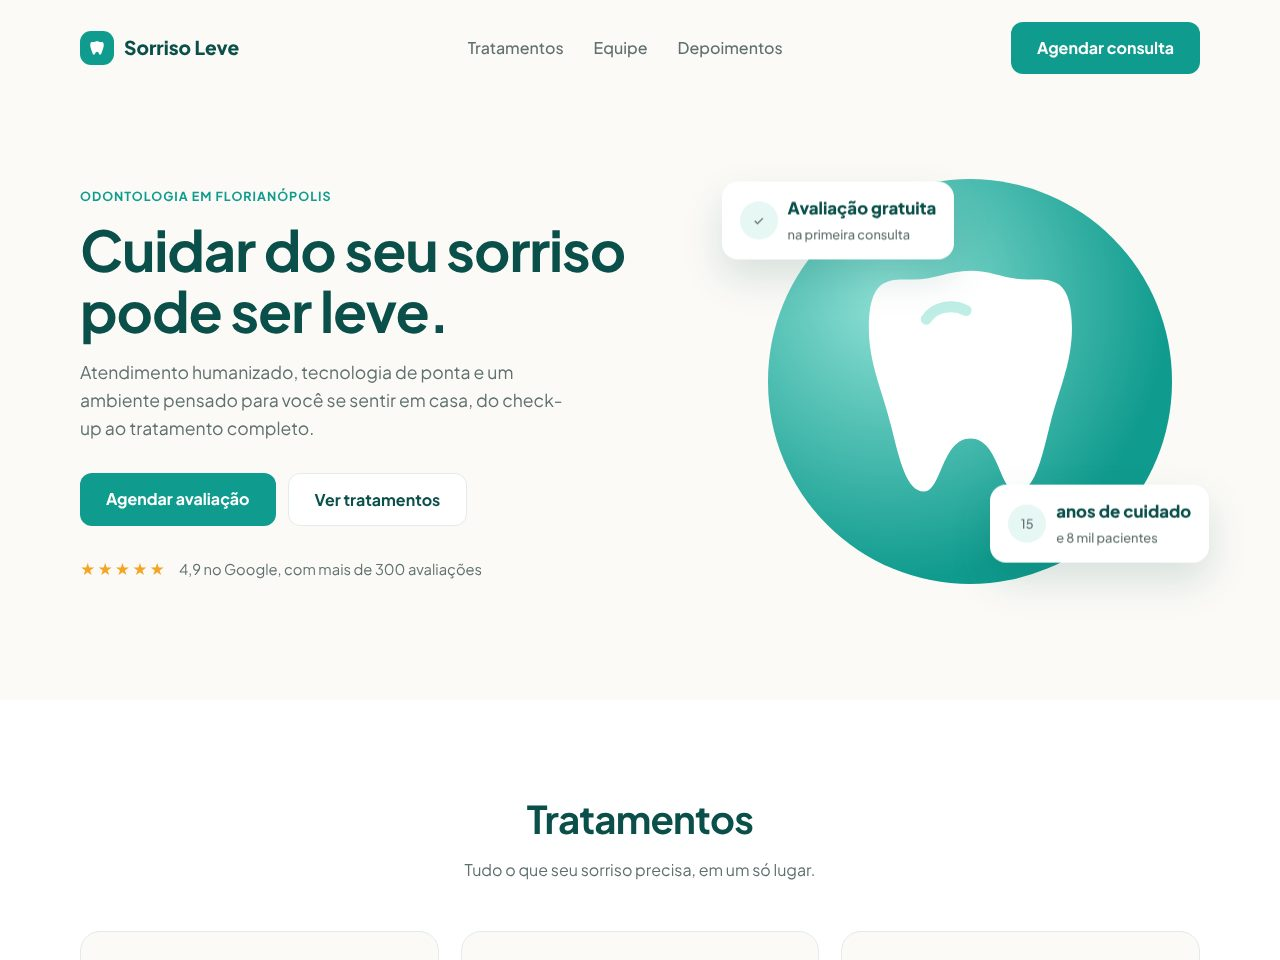
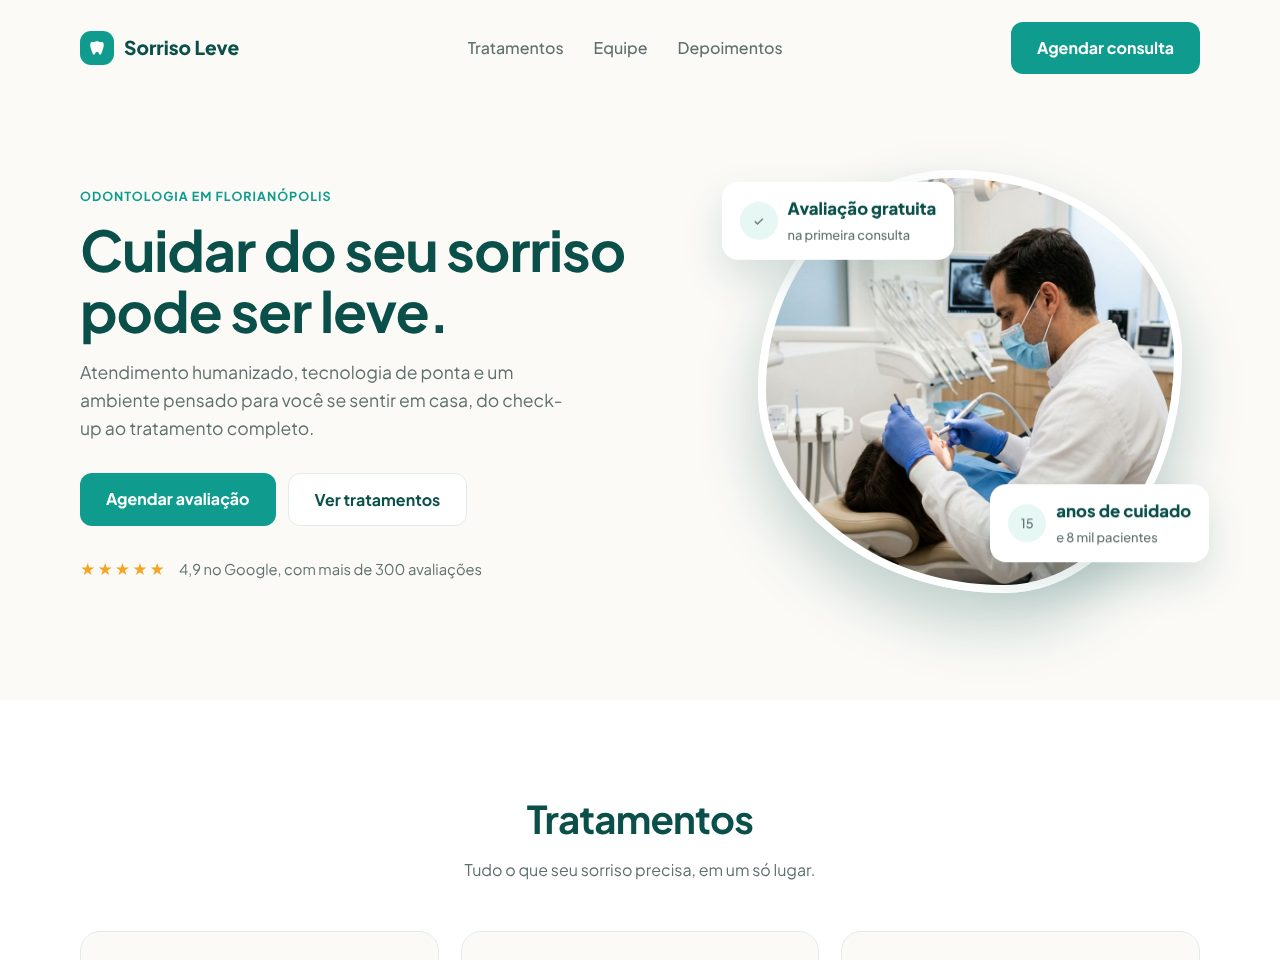
Fotos reais nos 3 projetos conceito do portfólio (#5)
Claude-Session: https://claude.ai/code/session_01MLmubs9DAmeHfcHHENjmzA

Changed region(s): [[0.5625, 0.1875, 0.9375, 0.6562]]

diff --git a/portfolio/loja/index.html b/portfolio/loja/index.html
@@ -33,7 +33,8 @@
   .btn { display: inline-block; font: inherit; font-weight: 700; background: var(--verde); color: #fff; border: 0; padding: 14px 28px; border-radius: 999px; cursor: pointer; transition: transform .2s, background .2s; }
   .btn:hover { transform: translateY(-2px); background: #244a2d; }
   .hero-img { height: 100%; min-height: 380px; background: linear-gradient(160deg, #cfe2c6, #9cc496); display: grid; place-items: end center; }
-  .hero-img svg { width: 78%; max-width: 380px; }
+  .hero-img { position: relative; overflow: hidden; }
+  .hero-img img { position: absolute; inset: 0; width: 100%; height: 100%; object-fit: cover; }
   .beneficios { display: grid; grid-template-columns: repeat(3, 1fr); gap: 20px; padding: 40px 0; }
   .ben { display: flex; gap: 14px; align-items: center; }
   .ben i { width: 46px; height: 46px; border-radius: 50%; background: var(--areia); display: grid; place-items: center; font-style: normal; flex-shrink: 0; }
@@ -48,8 +49,9 @@
   .prod { transition: opacity .3s, transform .3s; }
   .prod.oculto { display: none; }
   .foto { aspect-ratio: 4/5; border-radius: 20px; display: grid; place-items: end center; position: relative; overflow: hidden; }
-  .foto svg { width: 72%; transition: transform .5s; }
-  .prod:hover .foto svg { transform: scale(1.06) rotate(-2deg); }
+  .foto img { position: absolute; inset: 0; width: 100%; height: 100%; object-fit: cover; transition: transform .6s; }
+  .prod:hover .foto img { transform: scale(1.07); }
+  .selo, .add { z-index: 1; }
   .selo { position: absolute; top: 14px; left: 14px; background: #fff; font-size: .75rem; font-weight: 700; padding: 5px 12px; border-radius: 999px; color: var(--terracota); }
   .add { position: absolute; bottom: 14px; right: 14px; width: 44px; height: 44px; border-radius: 50%; border: 0; background: var(--verde); color: #fff; font-size: 1.4rem; cursor: pointer; transform: translateY(70px); transition: transform .3s; }
   .prod:hover .add, .add:focus { transform: none; }
@@ -99,9 +101,7 @@
       <p>Plantas saudáveis, vasos artesanais e tudo o que você precisa para cuidar delas, entregue na sua porta.</p>
       <a class="btn" href="#loja">Comprar agora</a>
     </div>
-    <div class="hero-img">
-      <svg viewBox="0 0 200 220"><path d="M100 120C60 110 40 60 60 20c20 30 40 60 40 100z" fill="#2f5d3a"/><path d="M100 120c40-10 60-60 40-100-20 30-40 60-40 100z" fill="#4c8a55"/><path d="M100 125C70 100 20 100 10 70c40 0 80 20 90 55z" fill="#6aa36f"/><path d="M100 125c30-25 80-25 90-55-40 0-80 20-90 55z" fill="#3c7346"/><path d="M60 130h80l-10 90H70z" fill="#c96f4a"/><rect x="54" y="122" width="92" height="16" rx="4" fill="#b55f3d"/></svg>
-    </div>
+    <div class="hero-img"><img src="img/orquidea.jpg" alt="Orquídea amarela em vaso de cerâmica" width="900" height="900"></div>
   </div>
 
   <div class="beneficios">
@@ -135,19 +135,19 @@
 <script>
   const folha = (c1, c2, vaso) => `<svg viewBox="0 0 200 220"><path d="M100 130C70 110 50 70 70 30c20 30 30 60 30 100z" fill="${c1}"/><path d="M100 130c30-20 50-60 30-100-20 30-30 60-30 100z" fill="${c2}"/><path d="M100 132C75 115 35 112 25 85c35 2 65 18 75 47z" fill="${c2}"/><path d="M100 132c25-17 65-20 75-47-35 2-65 18-75 47z" fill="${c1}"/><path d="M62 138h76l-9 82H71z" fill="${vaso}"/><rect x="56" y="130" width="88" height="15" rx="4" fill="${vaso}" opacity=".85"/></svg>`;
   const produtos = [
-    { n: "Costela-de-adão", d: "Vaso cerâmica 18cm", p: 149, de: 179, f: ["sombra"], bg: "#e3eedc", c: ["#2f5d3a", "#4c8a55"], v: "#e9e2d6", selo: "-17%" },
-    { n: "Zamioculca", d: "Vaso concreto 15cm", p: 89, f: ["sombra", "facil"], bg: "#f3e7da", c: ["#3c6b3f", "#5d9a5f"], v: "#9a9a96" },
-    { n: "Espada-de-são-jorge", d: "Vaso terracota 14cm", p: 69, f: ["sol", "facil"], bg: "#e6ece2", c: ["#47703c", "#8bb05a"], v: "#c96f4a", selo: "Mais vendida" },
-    { n: "Jiboia", d: "Cachepô de palha", p: 59, f: ["sombra", "facil"], bg: "#efe9dc", c: ["#4f8a43", "#86b96a"], v: "#cfae7c" },
-    { n: "Lavanda", d: "Vaso cerâmica 12cm", p: 49, f: ["sol"], bg: "#ece6f2", c: ["#6b7f5a", "#9a86c4"], v: "#ffffff" },
-    { n: "Ficus lyrata", d: "Vaso fibra 30cm", p: 289, f: ["sol"], bg: "#e1ebe0", c: ["#2a5233", "#3f7a49"], v: "#2d2d2d", selo: "Novidade" },
-    { n: "Peperômia", d: "Vaso cerâmica 10cm", p: 39, f: ["sombra", "facil"], bg: "#f4eadf", c: ["#5b8f4c", "#9cc27a"], v: "#e8b9a0" },
-    { n: "Suculentas (kit 3)", d: "Vasinhos de barro", p: 54, f: ["sol", "facil"], bg: "#efeee4", c: ["#7aa37a", "#b0c98f"], v: "#c96f4a" },
+    { n: "Costela-de-adão", img: "costela-de-adao", d: "Vaso cerâmica 18cm", p: 149, de: 179, f: ["sombra"], bg: "#e3eedc", c: ["#2f5d3a", "#4c8a55"], v: "#e9e2d6", selo: "-17%" },
+    { n: "Zamioculca", img: "zamioculca", d: "Vaso concreto 15cm", p: 89, f: ["sombra", "facil"], bg: "#f3e7da", c: ["#3c6b3f", "#5d9a5f"], v: "#9a9a96" },
+    { n: "Espada-de-são-jorge", img: "espada-de-sao-jorge", d: "Vaso terracota 14cm", p: 69, f: ["sol", "facil"], bg: "#e6ece2", c: ["#47703c", "#8bb05a"], v: "#c96f4a", selo: "Mais vendida" },
+    { n: "Orquídea amarela", img: "orquidea", d: "Cachepô de cerâmica", p: 119, f: ["sombra"], bg: "#efe9dc", c: ["#4f8a43", "#86b96a"], v: "#cfae7c" },
+    { n: "Lavanda", img: "lavanda", d: "Vaso cerâmica 12cm", p: 49, f: ["sol"], bg: "#ece6f2", c: ["#6b7f5a", "#9a86c4"], v: "#ffffff" },
+    { n: "Ficus lyrata", img: "ficus", d: "Vaso fibra 30cm", p: 289, f: ["sol"], bg: "#e1ebe0", c: ["#2a5233", "#3f7a49"], v: "#2d2d2d", selo: "Novidade" },
+    { n: "Peperômia", img: "peperomia", d: "Vaso cerâmica 10cm", p: 39, f: ["sombra", "facil"], bg: "#f4eadf", c: ["#5b8f4c", "#9cc27a"], v: "#e8b9a0" },
+    { n: "Suculentas (kit 3)", img: "suculentas", d: "Vasinhos de barro", p: 54, f: ["sol", "facil"], bg: "#efeee4", c: ["#7aa37a", "#b0c98f"], v: "#c96f4a" },
   ];
   const grade = document.getElementById("produtos");
   grade.innerHTML = produtos.map(x => `
     <div class="prod" data-f="${x.f.join(" ")}">
-      <div class="foto" style="background:${x.bg}">${x.selo ? `<span class="selo">${x.selo}</span>` : ""}${folha(x.c[0], x.c[1], x.v)}<button class="add" aria-label="Adicionar">+</button></div>
+      <div class="foto" style="background:${x.bg}">${x.selo ? `<span class="selo">${x.selo}</span>` : ""}<img src="img/${x.img}.jpg" alt="${x.n}" loading="lazy" width="672" height="900"><button class="add" aria-label="Adicionar">+</button></div>
       <h3>${x.n}</h3><p>${x.d}</p>
       <div class="preco">R$ ${x.p},00${x.de ? `<s>R$ ${x.de},00</s>` : ""}</div>
     </div>`).join("");

diff --git a/portfolio/clinica/index.html b/portfolio/clinica/index.html
@@ -34,7 +34,9 @@
   .estrelas { color: #f5a524; letter-spacing: 2px; }
   .ilustra { position: relative; aspect-ratio: 1; max-width: 460px; margin-left: auto; width: 100%; }
   .circulo { position: absolute; inset: 6%; border-radius: 50%; background: radial-gradient(circle at 30% 30%, #8fe0d5, var(--verde) 70%); }
-  .dente { position: absolute; inset: 22% 26% 18%; }
+  .foto-hero { position: absolute; inset: 4%; border-radius: 46% 54% 42% 58% / 52% 44% 56% 48%; overflow: hidden; box-shadow: 0 30px 60px rgba(11, 79, 74, .25); border: 8px solid #fff; }
+  .foto-hero img { width: 100%; height: 100%; object-fit: cover; }
+  .flutua { z-index: 1; }
   .flutua { position: absolute; background: #fff; border-radius: 16px; padding: 14px 18px; box-shadow: 0 18px 40px rgba(11, 79, 74, .15); font-size: .88rem; font-weight: 600; display: flex; align-items: center; gap: 10px; animation: boia 5s ease-in-out infinite; }
   .flutua b { display: block; color: var(--verde-escuro); font-size: 1.05rem; }
   .flutua span { color: var(--suave); font-weight: 500; font-size: .8rem; }
@@ -55,7 +57,8 @@
   .equipe .grade { grid-template-columns: repeat(3, 1fr); }
   .dr { text-align: center; }
   .foto { aspect-ratio: 4/5; border-radius: 22px; margin-bottom: 16px; display: grid; place-items: end center; overflow: hidden; }
-  .foto svg { width: 70%; }
+  .foto img { width: 100%; height: 100%; object-fit: cover; transition: transform .6s; }
+  .dr:hover .foto img { transform: scale(1.05); }
   .dr h3 { color: var(--verde-escuro); } .dr p { color: var(--suave); font-size: .9rem; }
   .depo { background: var(--verde-escuro); color: #e3f3f0; }
   .depo .titulo h2 { color: #fff; } .depo .titulo p { color: #9fcbc5; }
@@ -102,8 +105,7 @@
       <div class="nota"><span class="estrelas">★★★★★</span> 4,9 no Google, com mais de 300 avaliações</div>
     </div>
     <div class="ilustra">
-      <div class="circulo"></div>
-      <svg class="dente" viewBox="0 0 100 110" fill="#fff"><path d="M50 8C40 8 34 12 24 12S4 10 4 34c0 16 6 28 10 44s7 30 15 30 8-24 21-24 13 24 21 24 11-14 15-30 10-28 10-44C96 10 86 12 76 12S60 8 50 8z"/><path d="M30 30c4-6 12-7 18-4" stroke="#bfeee7" stroke-width="5" fill="none" stroke-linecap="round"/></svg>
+      <div class="foto-hero"><img src="img/consulta.jpg" alt="Dentista atendendo uma paciente no consultório" width="900" height="900"></div>
       <div class="flutua f1"><span class="bolinha">✓</span><div><b>Avaliação gratuita</b><span>na primeira consulta</span></div></div>
       <div class="flutua f2"><span class="bolinha">15</span><div><b>anos de cuidado</b><span>e 8 mil pacientes</span></div></div>
     </div>
@@ -127,9 +129,9 @@
     <div class="container">
       <div class="titulo"><h2>Nossa equipe</h2><p>Especialistas que tratam cada paciente com atenção.</p></div>
       <div class="grade">
-        <div class="dr"><div class="foto" style="background:linear-gradient(160deg,#d5f2ec,#9fdcd2)"><svg viewBox="0 0 100 90"><circle cx="50" cy="32" r="20" fill="#0b4f4a" opacity=".85"/><path d="M10 90c4-26 20-36 40-36s36 10 40 36z" fill="#fff"/></svg></div><h3>Dra. Helena Duarte</h3><p>Ortodontia e estética</p></div>
-        <div class="dr"><div class="foto" style="background:linear-gradient(160deg,#fbe9d7,#f4caa3)"><svg viewBox="0 0 100 90"><circle cx="50" cy="32" r="20" fill="#0b4f4a" opacity=".85"/><path d="M10 90c4-26 20-36 40-36s36 10 40 36z" fill="#fff"/></svg></div><h3>Dr. Rafael Amaral</h3><p>Implantodontia</p></div>
-        <div class="dr"><div class="foto" style="background:linear-gradient(160deg,#e4e6fb,#bfc5f3)"><svg viewBox="0 0 100 90"><circle cx="50" cy="32" r="20" fill="#0b4f4a" opacity=".85"/><path d="M10 90c4-26 20-36 40-36s36 10 40 36z" fill="#fff"/></svg></div><h3>Dra. Marina Costa</h3><p>Odontopediatria</p></div>
+        <div class="dr"><div class="foto"><img src="img/helena.jpg" alt="Dra. Helena Duarte" loading="lazy" width="672" height="900"></div><h3>Dra. Helena Duarte</h3><p>Ortodontia e estética</p></div>
+        <div class="dr"><div class="foto"><img src="img/rafael.jpg" alt="Dr. Rafael Amaral" loading="lazy" width="672" height="900"></div><h3>Dr. Rafael Amaral</h3><p>Implantodontia</p></div>
+        <div class="dr"><div class="foto"><img src="img/marina.jpg" alt="Dra. Marina Costa" loading="lazy" width="672" height="900"></div><h3>Dra. Marina Costa</h3><p>Odontopediatria</p></div>
       </div>
     </div>
   </section>

diff --git a/portfolio/restaurante/index.html b/portfolio/restaurante/index.html
@@ -40,6 +40,10 @@
   .prato { aspect-ratio: 1; border-radius: 50%; background: radial-gradient(circle at 50% 50%, #3a2a1f 0 38%, #2a1f17 38% 41%, #efe6d8 41% 66%, #d8ccba 66% 68%, transparent 68%); position: relative; max-width: 440px; width: 100%; margin: auto; }
   .prato::before { content: ""; position: absolute; inset: 30%; border-radius: 50%; background: radial-gradient(circle at 40% 40%, #a9542a, #6b2e14 60%, #3a180a); box-shadow: 0 0 0 6px rgba(120, 160, 70, .5), 0 0 40px rgba(232, 116, 59, .4); }
   .prato::after { content: ""; position: absolute; width: 22%; height: 8%; top: 36%; left: 46%; border-radius: 50%; background: #7da33f; transform: rotate(-30deg); box-shadow: -40px 50px 0 -4px #9bbf52, 10px 70px 0 -6px #d9b77e; }
+  .sobre { overflow: hidden; }
+  .prato-brilho { background: radial-gradient(circle, rgba(232, 116, 59, .4) 30%, transparent 68%); padding: 24px; border-radius: 50%; }
+  .prato-foto { width: 100%; max-width: 460px; height: auto; margin: auto; display: block; animation: girar-prato 60s linear infinite; }
+  @keyframes girar-prato { to { transform: rotate(360deg); } }
   .sobre h2, .titulo h2 { font-size: clamp(2rem, 4vw, 3rem); line-height: 1.1; }
   .sobre h2 em, .titulo h2 em { color: var(--ouro); font-style: italic; }
   .sobre p { color: var(--suave); margin: 20px 0; }
@@ -97,7 +101,7 @@
 
   <section>
     <div class="container sobre">
-      <div class="prato" aria-hidden="true"></div>
+      <div class="prato-brilho"><img class="prato-foto" src="img/prato.webp" alt="Prato com picanha na brasa, arroz, feijão, fritas e salada" width="760" height="760"></div>
       <div>
         <h2>Uma casa feita de <em>fogo, tempo</em> e boas conversas</h2>
         <p>O Taiá nasceu do encontro entre a cozinha caipira e as técnicas de fogo do mundo todo. Aqui nada é apressado: a carne descansa, o pão fermenta e a mesa é longa.</p>
